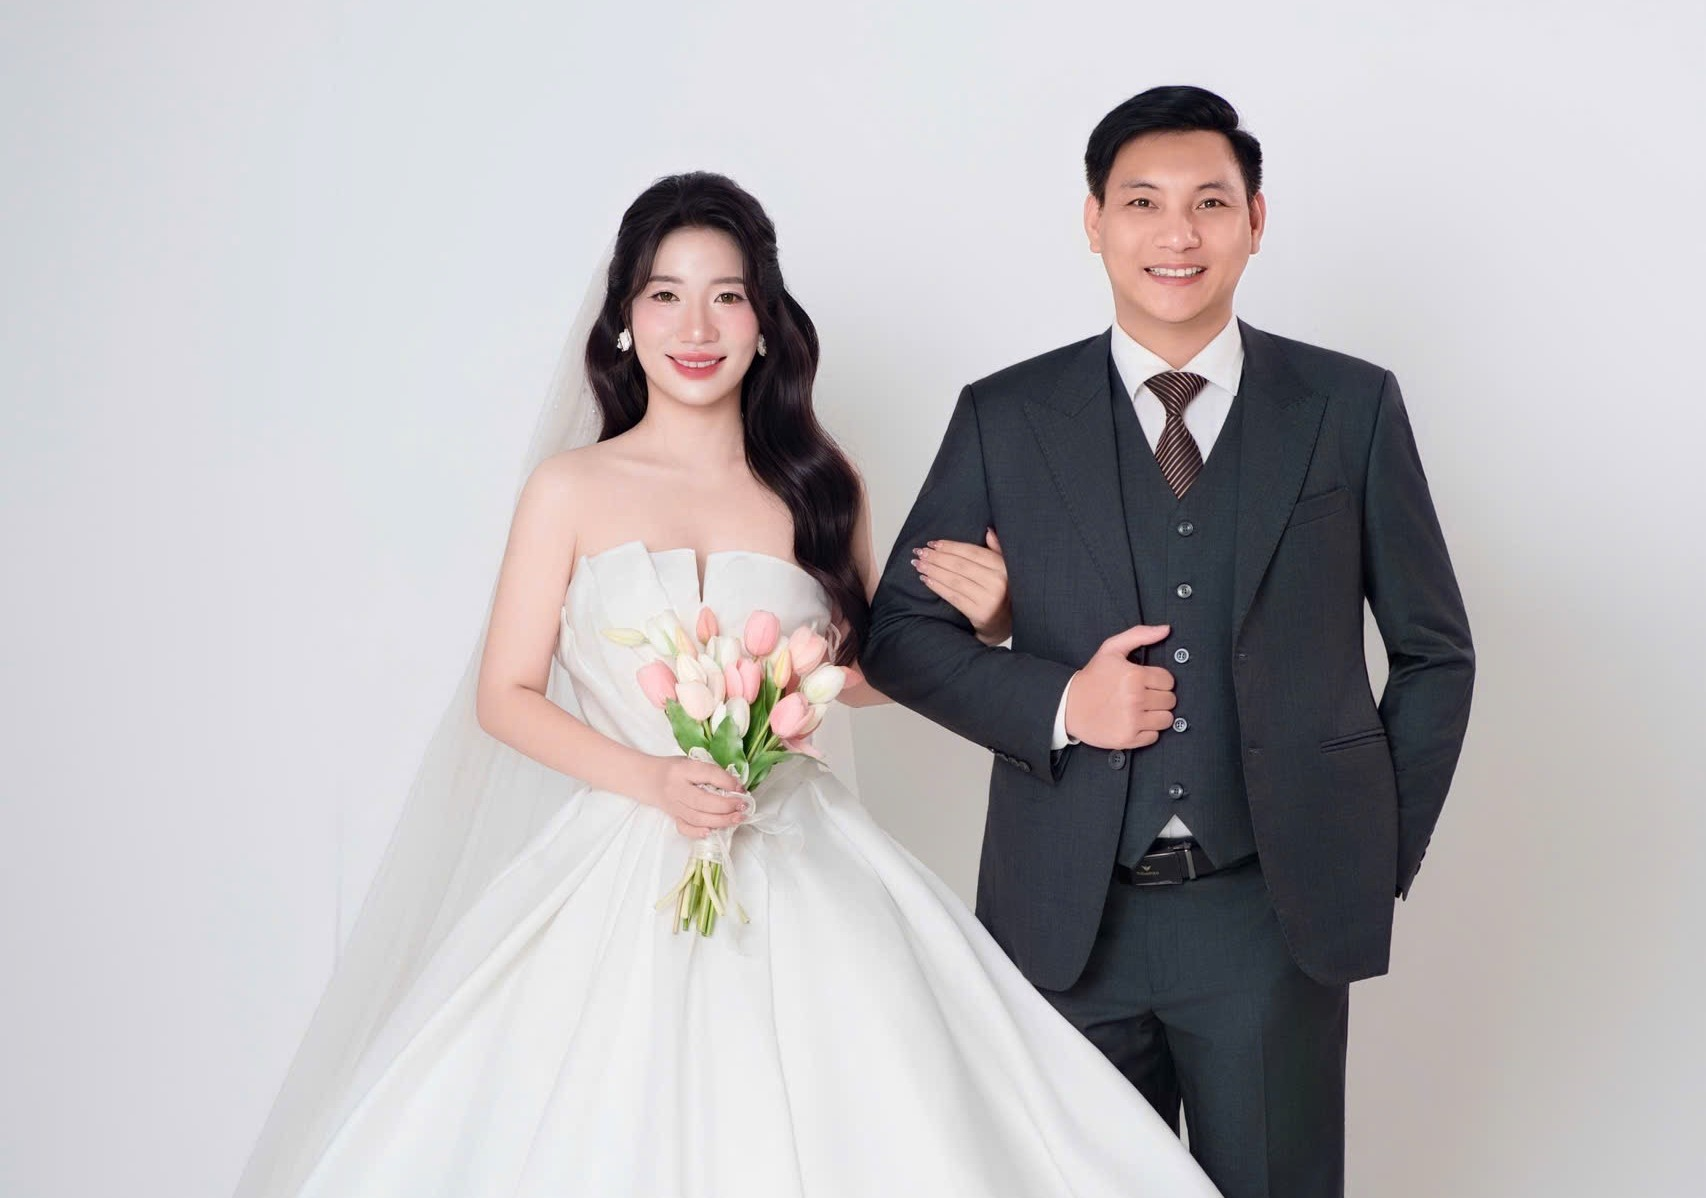
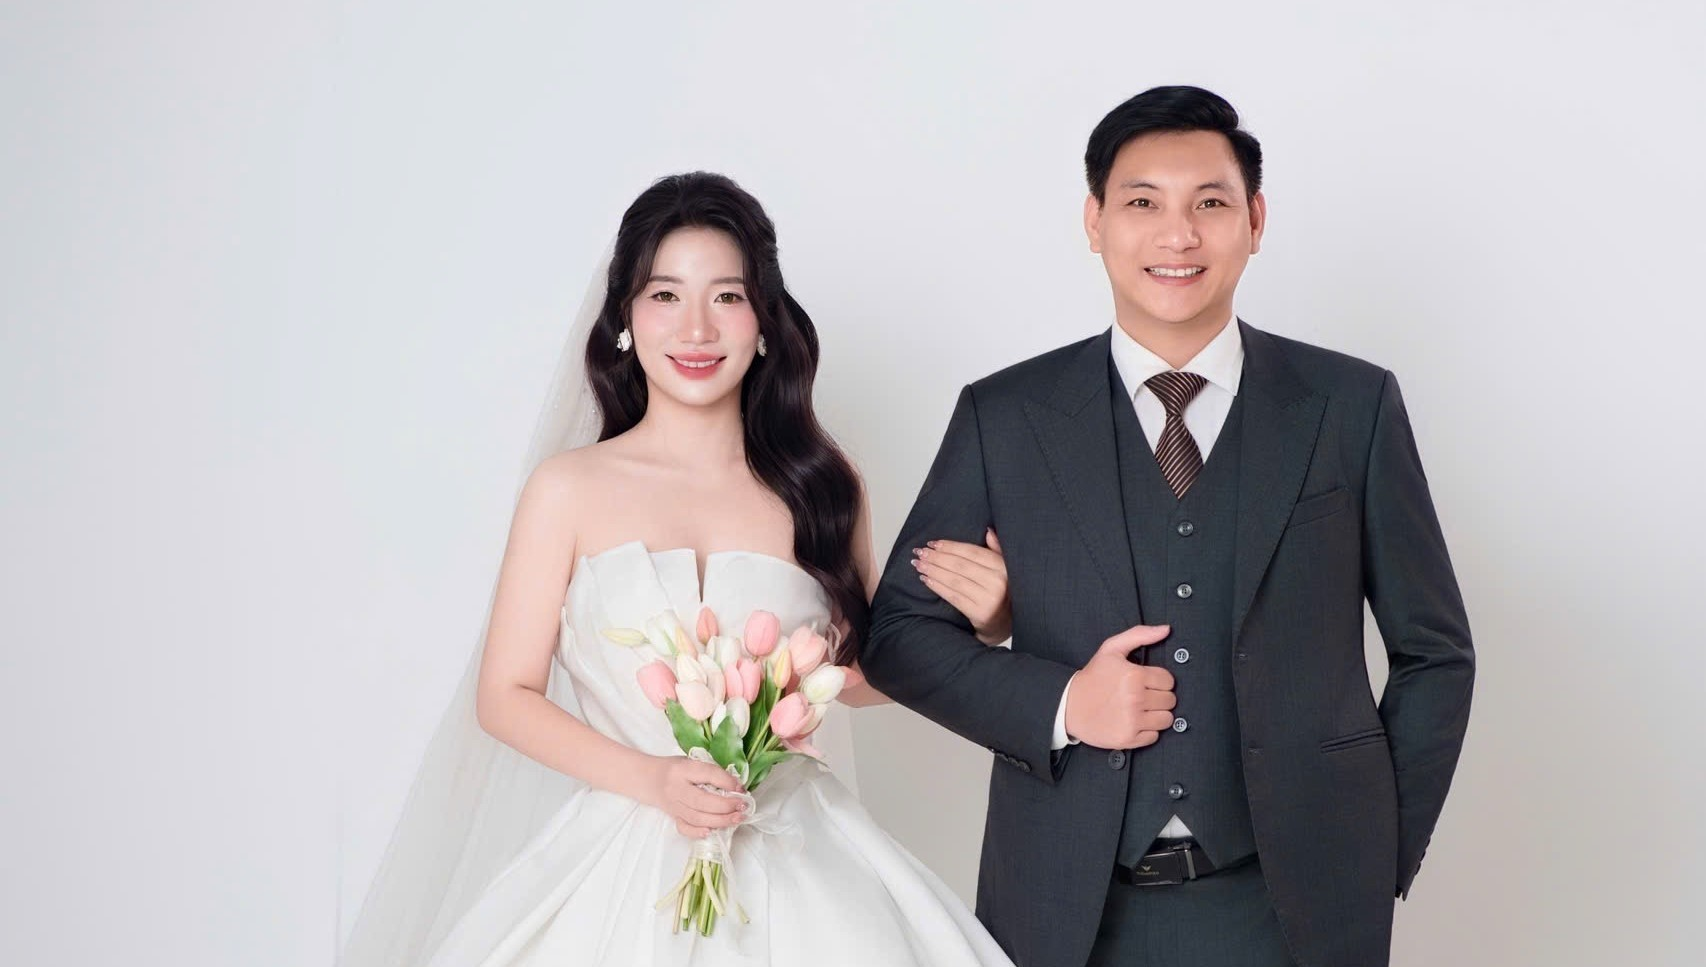
FIX

Changed region(s): [[0.2175, 0.062, 0.9009, 1.0], [0.3107, 0.9307, 0.3417, 0.9617]]

diff --git a/index.html b/index.html
@@ -2,7 +2,7 @@
 	<meta charset="UTF-8">
 	<meta name="viewport" content="width=device-width, initial-scale=1">
 	<link rel="profile" href="https://gmpg.org/xfn/11">
-		<meta property="og:image" content="https://lswedding.s3.ap-southeast-1.amazonaws.com/weddings/40/0jA1icU5q2JQbcsmdbvQ4j4fDY6nBUShJ693a9Rg.jpg">
+		<meta property="og:image" content="https://lswedding.s3.ap-southeast-1.amazonaws.com/weddings/11/bo6XVSsEH6plthipgUT9G5g4bXKYE5yLIPySs2xe.jpg">
 		<title>Đặng Hiến ❤ Hồng Nhung - Thiệp cưới online</title>
     <link rel="canonical" href="https://thiepdientu.github.io/HienNhung-Wedding/">
     <meta property="og:locale" content="vi_VN">
@@ -11,8 +11,8 @@
     <meta property="og:url" content="https://thiepdientu.github.io/HienNhung-Wedding/">
     <meta property="og:site_name" content="Đặng Hiến ❤Hồng Nhung">
     <meta property="og:updated_time" content="2024-03-13T11:56:14+00:00">
-    <meta property="og:image" content="https://lswedding.s3.ap-southeast-1.amazonaws.com/weddings/40/0jA1icU5q2JQbcsmdbvQ4j4fDY6nBUShJ693a9Rg.jpg">
-    <meta property="og:image:secure_url" content="https://lswedding.s3.ap-southeast-1.amazonaws.com/weddings/40/0jA1icU5q2JQbcsmdbvQ4j4fDY6nBUShJ693a9Rg.jpg">
+    <meta property="og:image" content="https://lswedding.s3.ap-southeast-1.amazonaws.com/weddings/11/bo6XVSsEH6plthipgUT9G5g4bXKYE5yLIPySs2xe.jpg">
+    <meta property="og:image:secure_url" content="https://lswedding.s3.ap-southeast-1.amazonaws.com/weddings/11/bo6XVSsEH6plthipgUT9G5g4bXKYE5yLIPySs2xe.jpg">
     <meta property="og:image:width" content="961">
     <meta property="og:image:height" content="1440">
     <meta property="og:image:alt" content="Thiệp 01">
